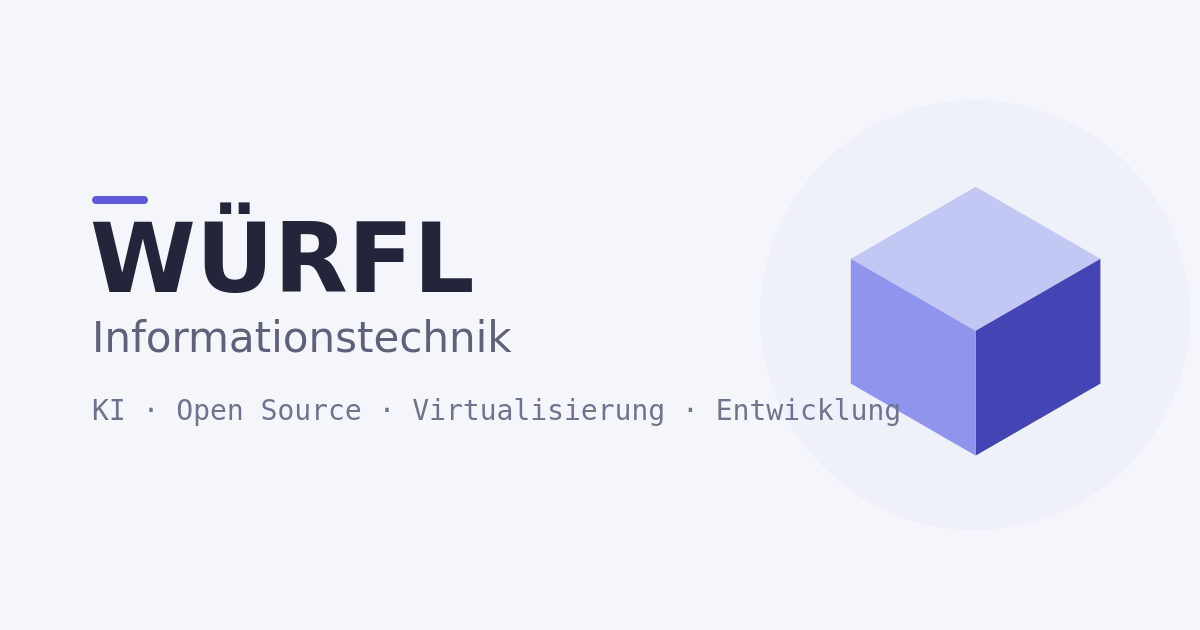
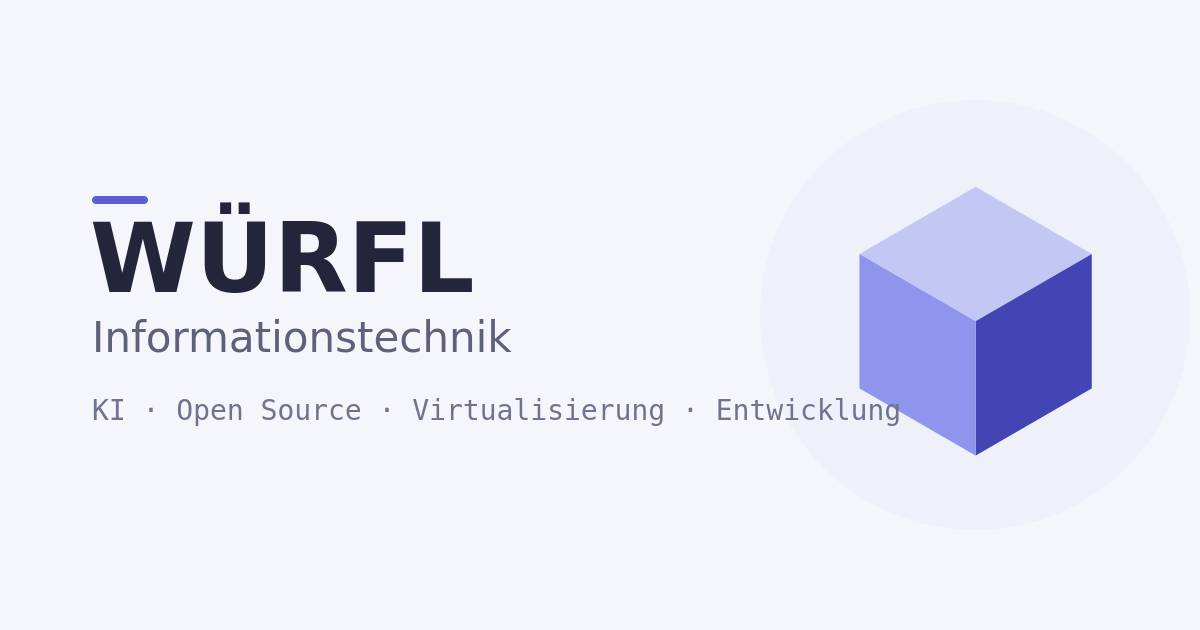
sitemap, cube geo-change

Changed region(s): [[0.7092, 0.3921, 0.925, 0.6333]]

diff --git a/index.html b/index.html
@@ -34,12 +34,12 @@
       <div class="nav__brand">
         <a class="brand" href="#top" aria-label="Informationstechnik Würfl – zum Seitenanfang">
           <svg class="brand__mark" viewBox="0 0 100 106" role="img" aria-label="WÜRFL Logo: isometrischer Würfel">
-            <path class="cube__face cube__face--top" d="M50 8 88 28 50 48 12 28Z"/>
-            <path class="cube__face cube__face--left" d="M50 48 12 28 12 68 50 88Z"/>
-            <path class="cube__face cube__face--right" d="M50 48 88 28 88 68 88 88Z"/>
-            <path class="cube__line" d="M50 8 88 28 88 68 88 88 12 68 12 28Z M50 48V88 M12 28 50 48 88 28"/>
+            <path class="cube__face cube__face--top" d="M50 8 84.6 28 50 48 15.4 28Z"/>
+            <path class="cube__face cube__face--left" d="M50 48 15.4 28 15.4 68 50 88Z"/>
+            <path class="cube__face cube__face--right" d="M50 48 84.6 28 84.6 68 50 88Z"/>
+            <path class="cube__line" d="M50 8 84.6 28 84.6 68 50 88 15.4 68 15.4 28Z M50 48V88 M15.4 28 50 48 84.6 28"/>
             <circle class="cube__dot" cx="50" cy="8" r="3.2"/>
-            <circle class="cube__dot" cx="88" cy="28" r="3.2"/>
+            <circle class="cube__dot" cx="84.6" cy="28" r="3.2"/>
             <circle class="cube__dot" cx="50" cy="48" r="3.2"/>
           </svg>
           <span class="brand__text">WÜRFL<small>Informationstechnik</small></span>
@@ -115,17 +115,17 @@
 
         <div class="hero__art reveal" aria-hidden="true">
           <svg class="cube" viewBox="0 0 100 106">
-            <path class="cube__face cube__face--top" d="M50 8 88 28 50 48 12 28Z"/>
-            <path class="cube__face cube__face--left" d="M50 48 12 28 12 68 50 88Z"/>
-            <path class="cube__face cube__face--right" d="M50 48 88 28 88 68 50 88Z"/>
-            <path class="cube__line" d="M50 8 88 28 88 68 50 88 12 68 12 28Z M50 48V88 M12 28 50 48 88 28"/>
+            <path class="cube__face cube__face--top" d="M50 8 84.6 28 50 48 15.4 28Z"/>
+            <path class="cube__face cube__face--left" d="M50 48 15.4 28 15.4 68 50 88Z"/>
+            <path class="cube__face cube__face--right" d="M50 48 84.6 28 84.6 68 50 88Z"/>
+            <path class="cube__line" d="M50 8 84.6 28 84.6 68 50 88 15.4 68 15.4 28Z M50 48V88 M15.4 28 50 48 84.6 28"/>
             <circle class="cube__dot" cx="50" cy="8" r="3.2"/>
-            <circle class="cube__dot" cx="88" cy="28" r="3.2"/>
+            <circle class="cube__dot" cx="84.6" cy="28" r="3.2"/>
             <circle class="cube__dot" cx="50" cy="48" r="3.2"/>
-            <circle class="cube__dot" cx="12" cy="28" r="3.2"/>
-            <circle class="cube__dot" cx="88" cy="68" r="3.2"/>
+            <circle class="cube__dot" cx="15.4" cy="28" r="3.2"/>
+            <circle class="cube__dot" cx="84.6" cy="68" r="3.2"/>
             <circle class="cube__dot" cx="50" cy="88" r="3.2"/>
-            <circle class="cube__dot" cx="12" cy="68" r="3.2"/>
+            <circle class="cube__dot" cx="15.4" cy="68" r="3.2"/>
           </svg>
           <span class="chip chip--1">
             <svg viewBox="0 0 24 24" fill="none" stroke="currentColor" stroke-width="2" stroke-linecap="round" stroke-linejoin="round"><path d="M12 3 3 7.5v9L12 21l9-4.5v-9Z"/><path d="M12 12 3 7.5M12 12l9-4.5M12 12v9"/></svg>
@@ -427,10 +427,10 @@
         <div>
           <a class="brand" href="#top" style="margin-bottom:1rem">
             <svg class="brand__mark" viewBox="0 0 100 106" aria-hidden="true">
-              <path class="cube__face cube__face--top" d="M50 8 88 28 50 48 12 28Z"/>
-              <path class="cube__face cube__face--left" d="M50 48 12 28 12 68 50 88Z"/>
-              <path class="cube__face cube__face--right" d="M50 48 88 28 88 68 50 88Z"/>
-              <path class="cube__line" d="M50 8 88 28 88 68 50 88 12 68 12 28Z M50 48V88 M12 28 50 48 88 28"/>
+              <path class="cube__face cube__face--top" d="M50 8 84.6 28 50 48 15.4 28Z"/>
+              <path class="cube__face cube__face--left" d="M50 48 15.4 28 15.4 68 50 88Z"/>
+              <path class="cube__face cube__face--right" d="M50 48 84.6 28 84.6 68 50 88Z"/>
+              <path class="cube__line" d="M50 8 84.6 28 84.6 68 50 88 15.4 68 15.4 28Z M50 48V88 M15.4 28 50 48 84.6 28"/>
             </svg>
             <span class="brand__text">WÜRFL<small>Informationstechnik</small></span>
           </a>
